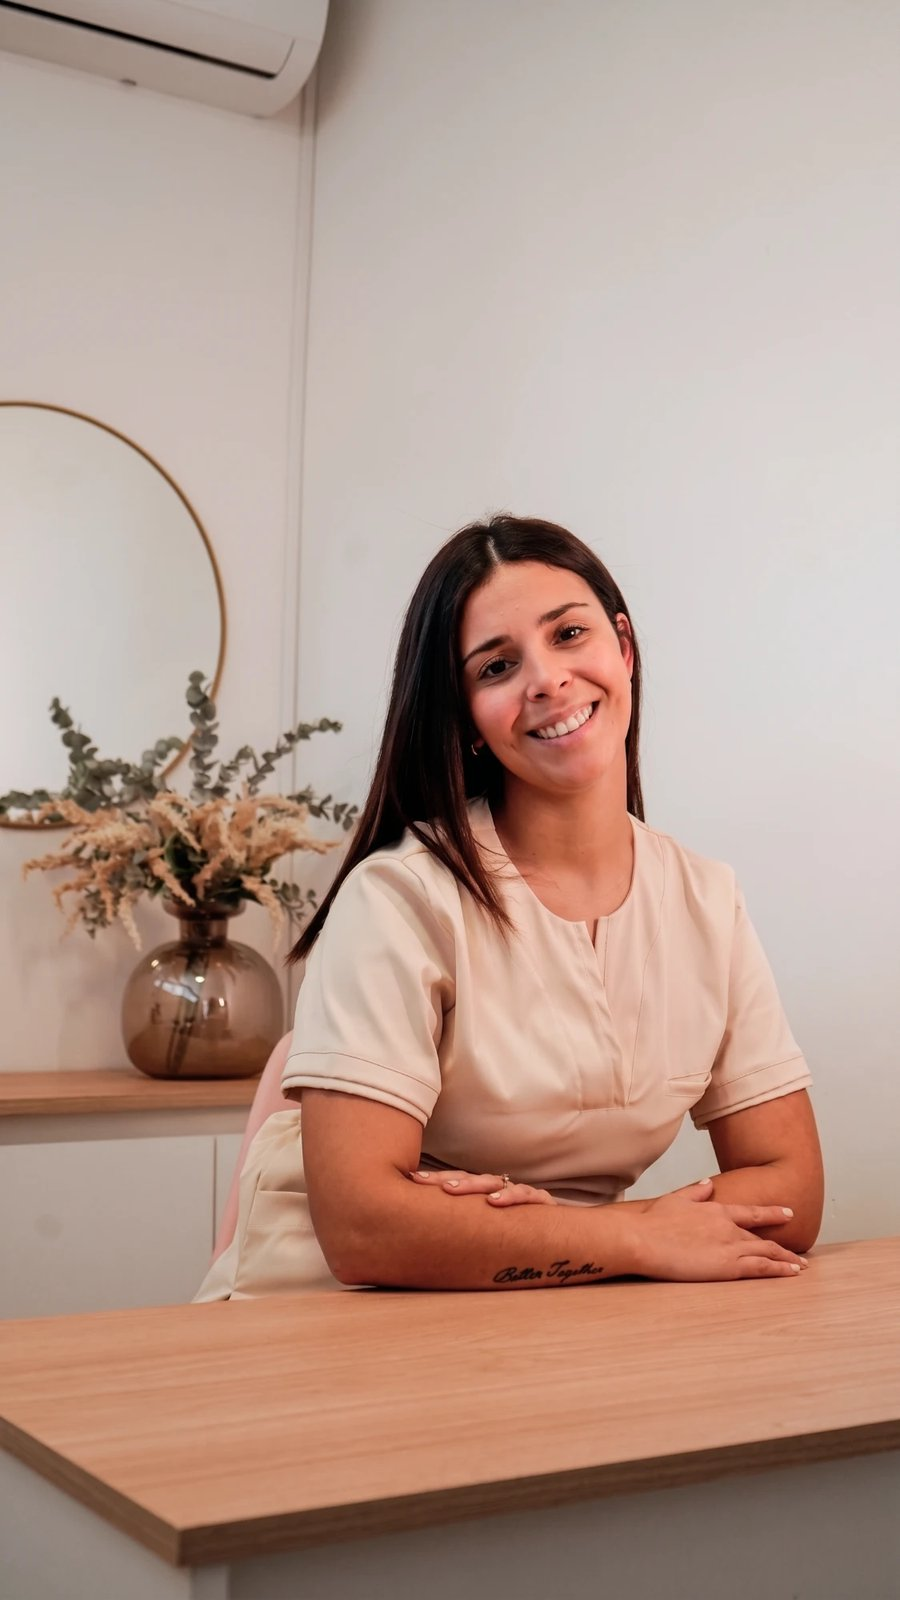
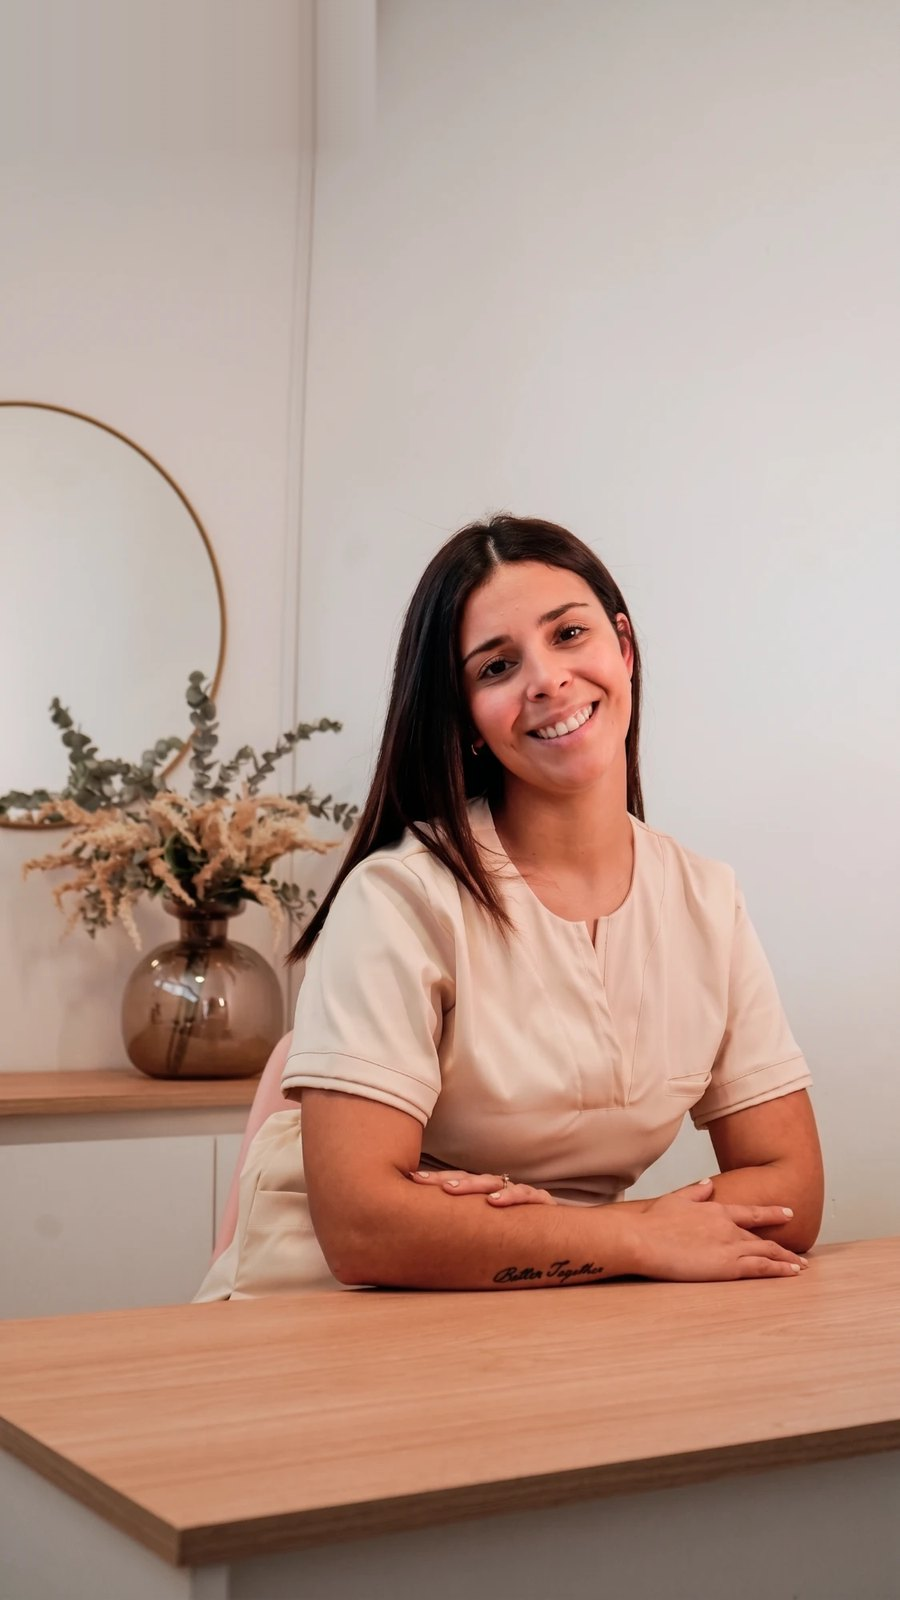
Foto de Sobre mí completa y sin aire acondicionado
Claude-Session: https://claude.ai/code/session_01S2Jk36gJ4niUthdHe6Vkih

Changed region(s): [[0.0, 0.0, 0.4356, 0.0938]]

diff --git a/index.html b/index.html
@@ -7,7 +7,7 @@
 <link rel="preconnect" href="https://fonts.googleapis.com">
 <link rel="preconnect" href="https://fonts.gstatic.com" crossorigin>
 <link href="https://fonts.googleapis.com/css2?family=Cormorant+Garamond:ital,wght@0,500;0,600;1,500&family=Jost:wght@300;400;500&display=swap" rel="stylesheet">
-<link rel="stylesheet" href="css/styles.css?v=202611220204">
+<link rel="stylesheet" href="css/styles.css?v=202611220205">
 <title>Dra. Nadir Hadad</title>
 <meta name="description" content="Tratamientos de medicina estética con la Dra. Nadir Hadad: toxina botulínica, ácido hialurónico, carboxiterapia y más.">
 </head>
@@ -15,7 +15,7 @@
 <header class="header" id="header"></header>
 <main id="app"></main>
 <footer class="footer" id="footer" style="margin-top:0"></footer>
-<script src="js/data.js?v=202611220204"></script>
-<script src="js/app.js?v=202611220204"></script>
+<script src="js/data.js?v=202611220205"></script>
+<script src="js/app.js?v=202611220205"></script>
 </body>
 </html>

diff --git a/css/styles.css b/css/styles.css
@@ -352,6 +352,6 @@ section[id] { scroll-margin-top: 96px; }
 @media (max-width: 860px) { .about-top { padding-block: 36px 56px; } }
 /* Sobre mí arriba: foto vertical completa */
 .about-top .about { grid-template-columns: minmax(0, 400px) 1fr; }
-.about-top .about__photo { aspect-ratio: 1125 / 1800; max-width: 400px; width: 100%; }
+.about-top .about__photo { aspect-ratio: 1125 / 2000; max-width: 400px; width: 100%; }
 .about-top .about__photo img { object-position: 50% 100%; }
 @media (max-width: 860px) { .about-top .about { grid-template-columns: 1fr; } .about-top .about__photo { max-width: 340px; margin-inline: auto; } }

diff --git a/js/data.js b/js/data.js
@@ -65,7 +65,7 @@ window.SITE = {
       "Médica especializada en medicina estética. Mi objetivo es acompañarte con tratamientos que realcen tu belleza natural, siempre con resultados armónicos y cuidando tu salud.",
       "Cada consulta empieza escuchándote: evaluamos qué necesitás y armamos un plan pensado para vos.",
     ],
-    foto: "img/dra-nadir.jpg",
+    foto: "img/dra-nadir.jpg?v=202611220205",
   },
 
   tratamientos: [
